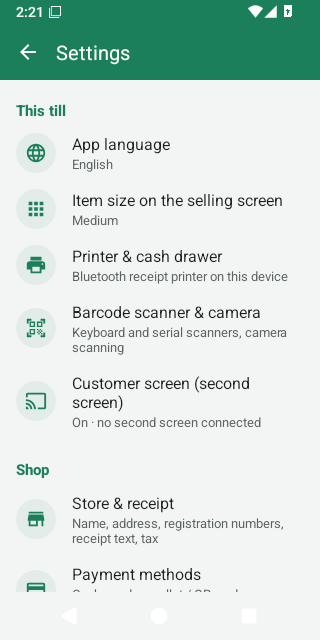
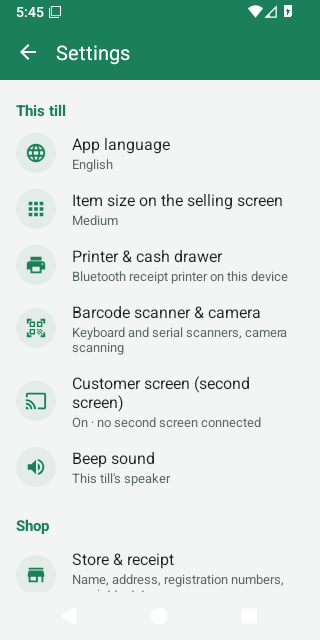
1.17.0: guide pictures from CI; APK size and CI runs in PHASES

diff --git a/docs/PHASES.md b/docs/PHASES.md
@@ -2049,7 +2049,14 @@ bill only") and where Share goes ("remove after a sale only").
 - [x] Docs: user guide EN + MS (selling screen, tabs, after the sale, sharing, unknown barcode, repayments, Settings table,
       customer screen), `features.md`, `codemap.md`, `glossary.md`, D-076. Privacy policy and Play answers unchanged
       (nothing new stored off the till, sent or asked)
-- [ ] CI on the branch; guide pictures refreshed from its screenshots (sell, tablet-sell, pay, menu)
+- [x] CI on the branch: run 38281967213 failed `SidewaysLayoutTest.thePaymentFitsAPhoneUpright` (the cash step 523dp
+      of 520 upright: the outlined Back was 56dp) → Cancel/Back/Split payment 48dp high as before; a new screenshot of a
+      dialog showed the buttons' top edge cut on API 36 (their 4dp top/bottom margins) → margins removed. Run
+      38285530283 (268c9bf): all jobs green — instrumented API 21 and 36, tablet, release smoke
+      API 21 and 36, lint. Release APK **1,660,838 bytes** (1.16.1: 1,654,741)
+- [x] Guide pictures refreshed: phone `sell`, `sell-empty`, `pay`, `pay-cash`, `menu`, `settings` (EN + MS) from run
+      38285530283; `tablet-sell` from run 38281967213 (the tablet emulator's "System UI isn't responding" covered the
+      later runs' tablet pictures; the selling screen is the same)
 - [ ] Test build for the owner
 
 ### Needs real-device testing (1.17.0)
